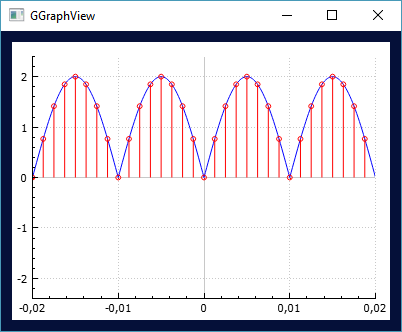
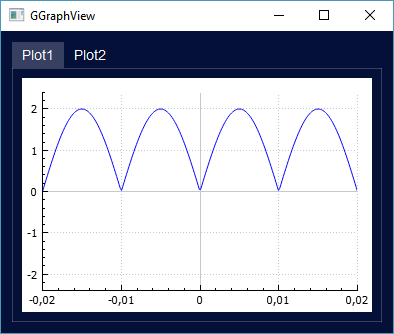
Initial Commit

diff --git a/lib/GSignal.cpp b/lib/GSignal.cpp
@@ -142,26 +142,22 @@ void GSignal::halfwave() {
 //===============================================
 void GSignal::fullwave() {
     double F = 50;
-    double W = 2*M_PI*F;
     double T = 1/F;
     double tmin = -1*T;
     double tmax = +1*T;
-    int Npow = 8;
-    int Nmax = (int)qPow(2.0, (double)Npow) + 1;
+    int Nmax = (int)qPow(2.0, (double)Npow);
     double Te = (tmax - tmin)/(Nmax - 1);
     double Vmax = 2;
-    int N = T/Te + 1;
 
-    m_paramMap.insert("ID", "fullwave");
+    m_paramMap.insert("ID", "halfwave");
+    m_paramMap.insert("F", F);
+    m_paramMap.insert("Vmax", Vmax);
     m_x.resize(Nmax);
     m_y.resize(Nmax);
 
     for(int i = 0; i < Nmax; i++) {
-        double di = i*Te;
-        double xi = tmin + di;
-        double yi;
-        if((i % N) < (N/2)) yi = Vmax*qSin(W*xi);
-        else yi = -Vmax*qSin(W*xi);
+        double xi = tmin + i*Te;
+        double yi = fullwave(xi);
         m_x[i] = xi;
         m_y[i] = yi;
     }
@@ -373,18 +369,10 @@ double GSignal::halfwave(const double& x) {
 //===============================================
 double GSignal::fullwave(const double& x) {
     double F = m_paramMap.value("F").toDouble();
-    double Vmin = m_paramMap.value("Vmin").toDouble();
     double Vmax = m_paramMap.value("Vmax").toDouble();
-    double x0 = m_paramMap.value("tmin").toDouble();
 
-    double T = 1/F;
-    double dx = x - x0;
-    int xA = dx/T;
-    double xB = dx - xA*T;
-    double xT = T/2;
-    double y;
-    if(xB < xT) y = Vmax;
-    else y = Vmin;
+    double W = 2*M_PI*F;
+    double y = qAbs(Vmax*qSin(W*x));
     return y;
 }
 //===============================================

diff --git a/Integration/src/GProcess.cpp b/Integration/src/GProcess.cpp
@@ -25,7 +25,7 @@ GProcess* GProcess::Instance() {
 }
 //===============================================
 void GProcess::run() {
-    GSignal::Instance()->halfwave();
+    GSignal::Instance()->square();
     QVector<double> m_x = GSignal::Instance()->getX();
     QVector<double> m_y = GSignal::Instance()->getY();
     double m_xMin = GSignal::Instance()->getXmin();
